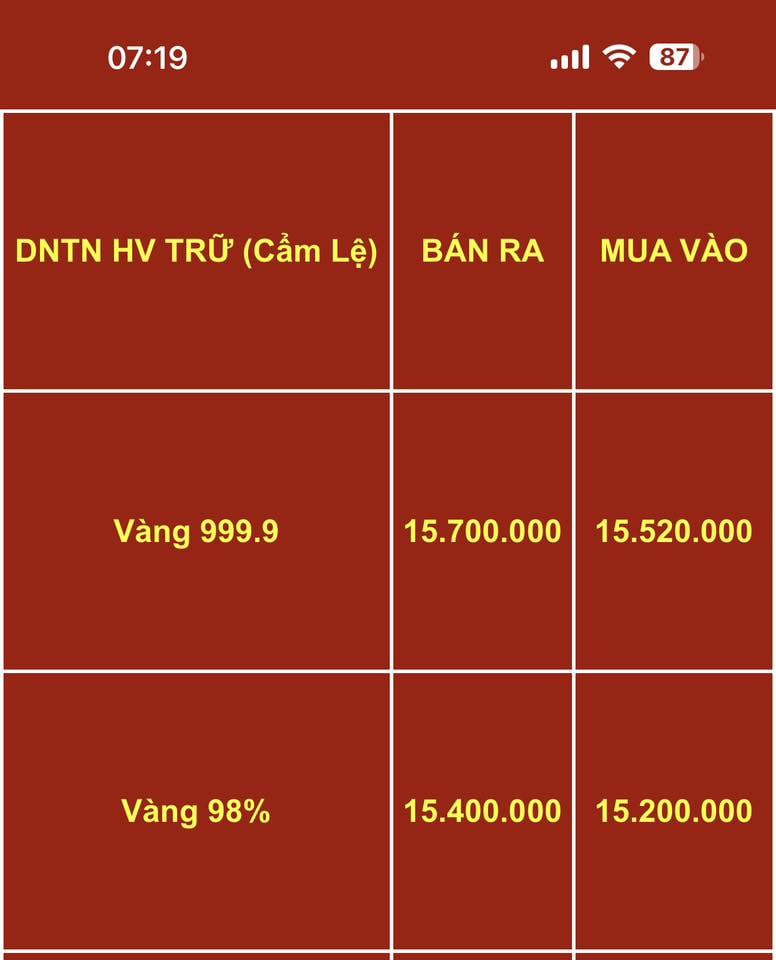
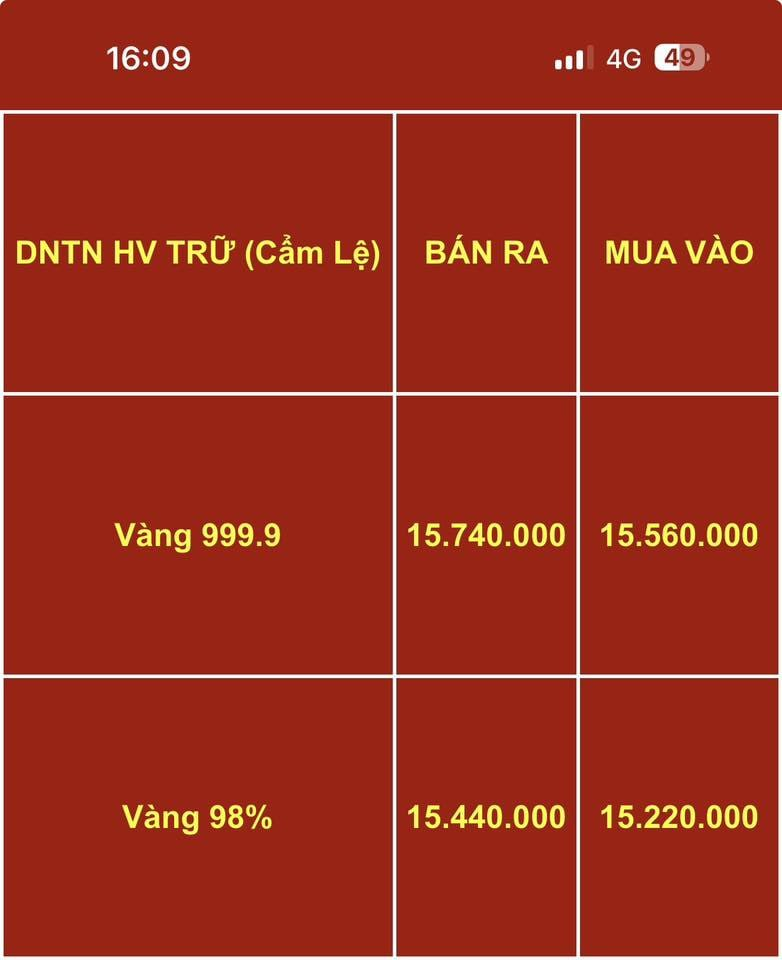
Update tru-cam-le price image (16:13)

diff --git a/app/data/goldShops.ts b/app/data/goldShops.ts
@@ -33,7 +33,7 @@ export const GOLD_SHOPS: GoldShop[] = [
     name: "Trữ Cẩm Lệ",
     location: "Đà Nẵng",
     image: "images/tru-cam-le.jpg",
-    updatedAt: "09:23",
+    updatedAt: "16:13",
   },
 ];
 
